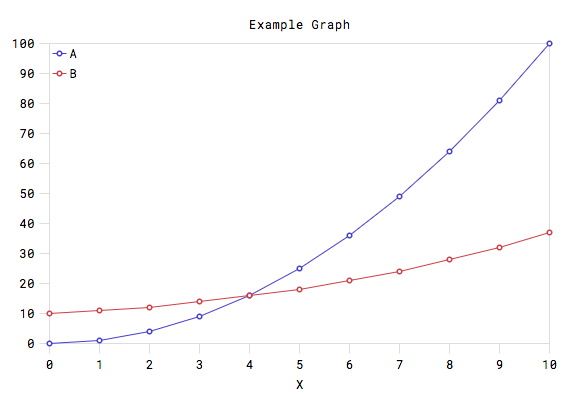
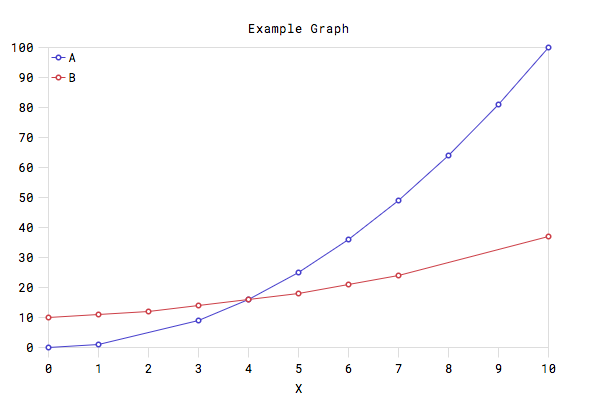
Support null & undefined values

diff --git a/test/functional/scalar-xy.js b/test/functional/scalar-xy.js
@@ -41,11 +41,11 @@ const data = {
   y: [
     {
       label: 'A',
-      values: [ 0, 1, 4, 9, 16, 25, 36, 49, 64, 81, 100 ]
+      values: [ 0, 1, null, 9, 16, 25, 36, 49, 64, 81, 100 ]
     },
     {
       label: 'B',
-      values: [ 10, 11, 12, 14, 16, 18, 21, 24, 28, 32, 37 ]
+      values: [ 10, 11, 12, 14, 16, 18, 21, 24, null, null, 37 ]
     }
   ]
 }

diff --git a/src/ScalarValues.js b/src/ScalarValues.js
@@ -15,6 +15,9 @@ class PointSet extends Component {
     for (let i = 0; i < data.x.length; ++i) {
       const x = data.x[i]
       const y = data.y[i]
+      if ((y === null) || (y === undefined)) {
+        continue
+      }
       points.push({
         x: (x - xMin) / (xMax - xMin) * width,
         y: height - (y - yMin) / (yMax - yMin) * height

diff --git a/test/unit/minmax.test.js b/test/unit/minmax.test.js
@@ -15,4 +15,9 @@ describe('minmax', () => {
     expect(minY).toEqual(-20)
     expect(maxY).toEqual(17)
   })
+
+  it('ignores null or undefined values', () => {
+    expect(minmax({values: [0, 10, null]})).toEqual([0, 10])
+    expect(minmax({values: [0, 10, undefined]})).toEqual([0, 10])
+  })
 })

diff --git a/README.md b/README.md
@@ -19,11 +19,11 @@ const data = {
   y: [
     {
       label: 'A',
-      values: [ 0, 1, 4, 9, 16, 25, 36, 49, 64, 81, 100 ]
+      values: [ 0, 1, null, 9, 16, 25, 36, 49, 64, 81, 100 ]
     },
     {
       label: 'B',
-      values: [ 10, 11, 12, 14, 16, 18, 21, 24, 28, 32, 37 ]
+      values: [ 10, 11, 12, 14, 16, 18, 21, 24, null, null, 37 ]
     }
   ]
 }
